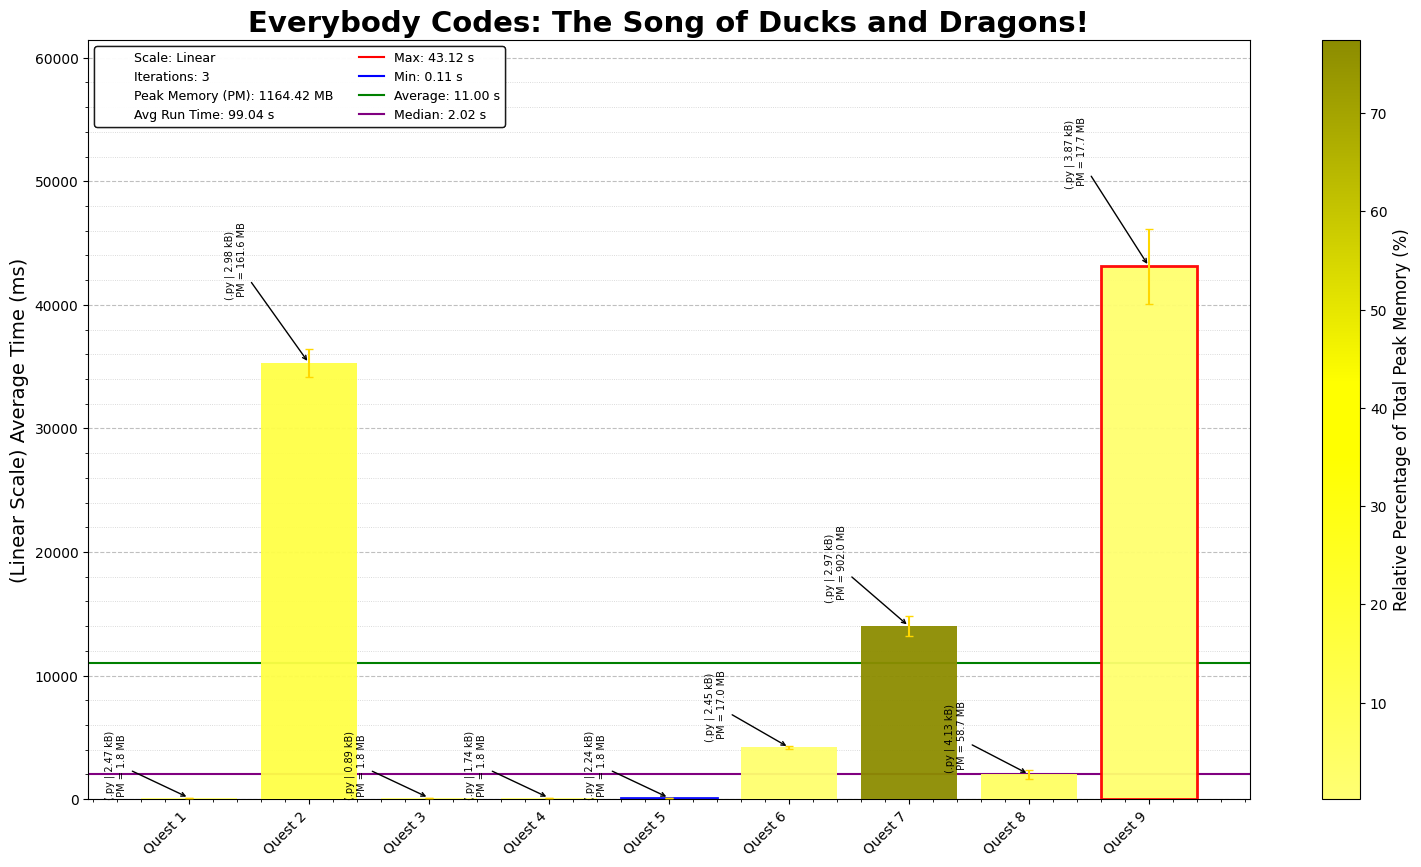
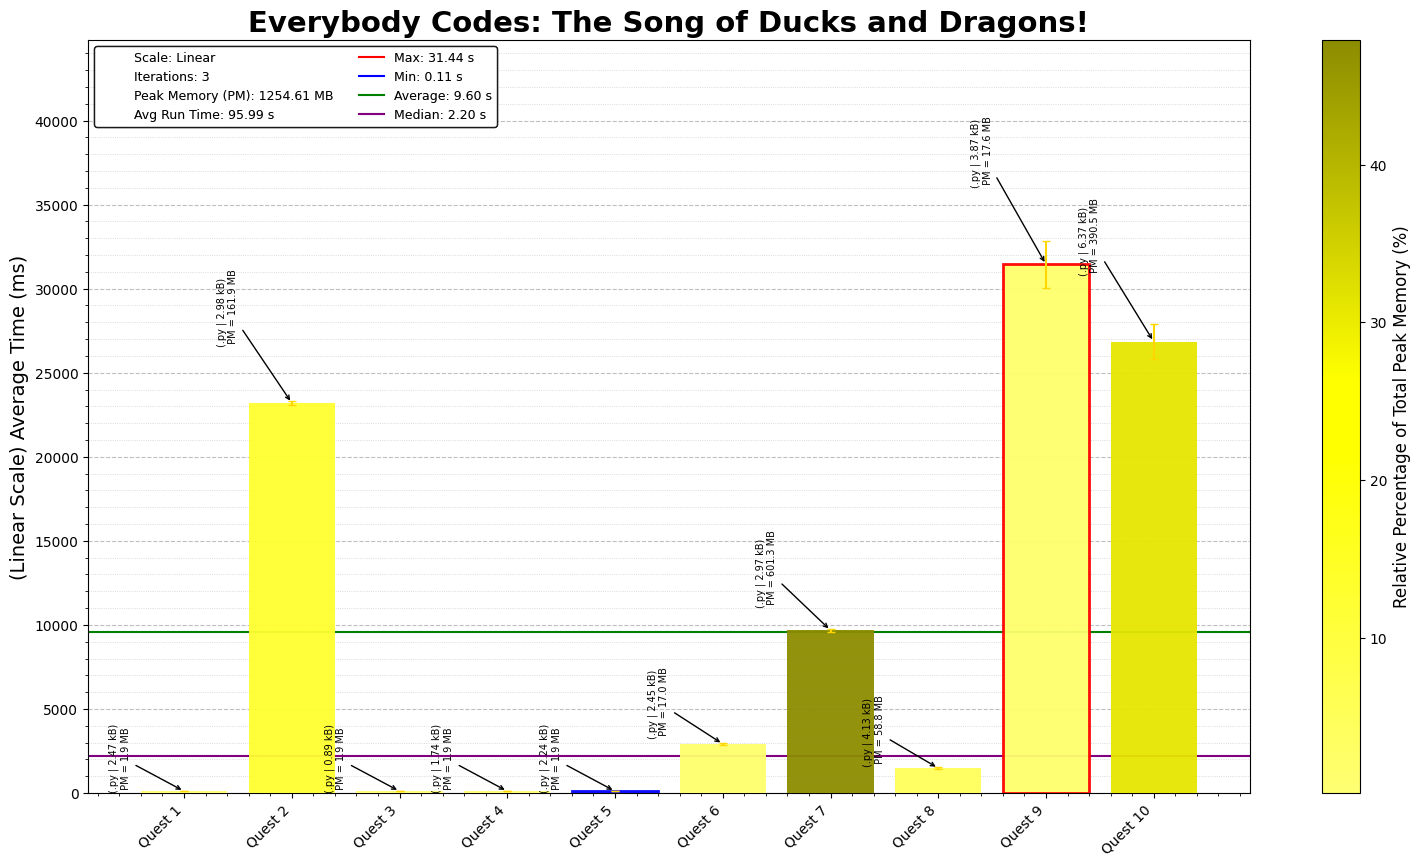
EC 2025 Quest 10: Feast on the Board

diff --git a/2025/10/2025Day10.py b/2025/10/2025Day10.py
@@ -1,0 +1,179 @@
+"""Everybody Codes - Quest 10, Year 2025
+Solution Started: November 15, 2025
+Puzzle Link: https://everybody.codes/event/2025/quests/10
+Solution by: Abbas Moosajee
+Brief: [Feast on the Board]"""
+
+#!/usr/bin/env python3
+from pathlib import Path
+from copy import deepcopy
+from collections import defaultdict, deque
+import time
+start_time = time.time()
+
+# List of input file names
+input_files = ["Day10_input_p1.txt", "Day10_input_p2.txt", "Day10_input_p3.txt"]
+
+# Read and split the input data into individual lists
+input_data_p1, input_data_p2, input_data_p3 = [
+    open(Path(__file__).parent / file).read().strip().split('\n')
+    for file in input_files
+]
+
+class DragonChess:
+    dragon_moves = [
+        (-1, -2), (-1, 2), (-2, -1), (-2, 1),
+            (1, -2), (1, 2), (2, -1), (2, 1)
+        ]
+
+    def __init__(self, init_chessboard):
+        self.seen = {}
+        self.board = self.parse_chessboard(init_chessboard)
+        self.max_r = max(r for (r, _) in self.board.keys())
+
+    def parse_chessboard(self, init_chessboard):
+        board_dict = defaultdict(tuple)
+        self.dragon_pos = (0, 0)
+        self.all_sheep = set()
+        for row_no, row_data in enumerate(init_chessboard):
+            for col_no, cell in enumerate(row_data):
+                pos = (row_no, col_no)
+                if cell == "D":
+                    self.dragon_pos = pos
+                if cell == "S":
+                    self.all_sheep.add(pos)
+                board_dict[pos] = cell
+        return board_dict
+
+    def count_sheep(self, max_moves):
+        init_pos = self.dragon_pos
+        queue = deque([(init_pos, 0)])
+        visited = set([init_pos])        # Only track positions, NOT (pos, moves)
+        sheep_found = set()
+
+        while queue:
+            (row, col), moves = queue.popleft()
+            if moves >= max_moves:
+                continue
+
+            for dr, dc in self.dragon_moves:
+                nr, nc = row + dr, col + dc
+                new_pos = (nr, nc)
+
+                if new_pos not in self.board:
+                    continue
+
+                if new_pos in visited:
+                    continue
+                visited.add(new_pos)
+
+                # Count sheep once
+                if self.board[new_pos] == "S" and new_pos not in sheep_found:
+                    sheep_found.add(new_pos)
+                queue.append((new_pos, moves + 1))
+        return len(sheep_found)
+
+    def eat_sheeps(self, start: tuple, moves: int) -> set:
+        """Return all sheep positions reachable by the dragon within `moves` knight-moves."""
+        r, c = start
+
+        if moves == 1:
+            return {
+                (r + dr, c + dc)
+                for dr, dc in self.dragon_moves
+                if (r + dr, c + dc) in self.all_sheep
+            }
+
+        found = set()
+        for dr, dc in self.dragon_moves:
+            nr, nc = r + dr, c + dc
+            if (nr, nc) in self.all_sheep:
+                found.add((nr, nc))
+            found |= self.eat_sheeps((nr, nc), moves - 1)
+
+        return found
+
+    def can_be_eaten(self, sheep: tuple, rounds: int) -> bool:
+        """Check if a sheep that moves downward each round can be eaten."""
+        r, c = sheep
+
+        for i in range(rounds):
+            # Sheep is at (r+i, c) in round i
+            pos_now = (r + i, c)
+            pos_next = (r + i + 1, c)
+
+            # Dragon reaches current sheep position
+            if self.board.get(pos_now) != '#':
+                if pos_now in self.dragons.get(i, ()) or pos_now in self.dragons.get(i + 1, ()):
+                    return True
+
+            # Dragon reaches next sheep position (after sheep moves)
+            if self.board.get(pos_next) != '#':
+                if pos_next in self.dragons.get(i + 1, ()):
+                    return True
+        return False
+
+    def catch_moving_sheep(self, max_moves: int) -> int:
+        """Simulate all dragon positions up to `max_moves` rounds and count how many sheep get eaten."""
+        self.dragons = {0: {self.dragon_pos}}
+
+        for i in range(max_moves):
+            next_positions = set()
+            for r, c in self.dragons[i]:
+                for dr, dc in self.dragon_moves:
+                    nr, nc = r + dr, c + dc
+                    if (nr, nc) in self.board:
+                        next_positions.add((nr, nc))
+            self.dragons[i + 1] = next_positions
+
+        return sum(self.can_be_eaten(sheep, max_moves) for sheep in self.all_sheep)
+
+    def tournament(self, position: tuple, sheeps: set, is_sheep_turn: bool = True) -> int:
+        if not sheeps:
+            return 1
+        key = (position, tuple(sheeps), is_sheep_turn)
+        if key in self.seen:
+            return self.seen[key]
+
+        res = 0
+        if is_sheep_turn:
+            sheep_moved = False
+            for sheep in sheeps:
+                sr, sc = sheep
+                if sr == self.max_r:
+                    sheep_moved = True
+                    continue
+                if (sr + 1, sc) != position or self.board[(sr + 1, sc)] == '#':
+                    new_sheeps = deepcopy(sheeps)
+                    new_sheeps.remove(sheep)
+                    new_sheeps.add((sr + 1, sc))
+                    sheep_moved = True
+                    res += self.tournament(position, new_sheeps, False)
+            if not sheep_moved:
+                res += self.tournament(position, sheeps, False)
+        else:
+            pr, pc = position
+            for dr, dc in self.dragon_moves:
+                new_position = (pr + dr, pc + dc)
+                if new_position in self.board.keys():
+                    if self.board[new_position] != "#":
+                        new_sheeps = sheeps - {new_position}
+                        res += self.tournament(new_position, new_sheeps, True)
+                    else:
+                        res += self.tournament(new_position, sheeps, True)
+        self.seen[key] = res
+        return res
+
+chess_p1 = DragonChess(input_data_p1)
+sheep_p1 = chess_p1.count_sheep(4)
+print("Quest 10, P1:", sheep_p1)
+
+chess_p2 = DragonChess(input_data_p2)
+sheep_p2 = chess_p2.catch_moving_sheep(20)
+print("Quest 10, P2:", sheep_p2)
+
+chess_p3 = DragonChess(input_data_p3)
+sheep_p3 = chess_p3.tournament(chess_p3.dragon_pos, chess_p3.all_sheep)
+print("Quest 10, P3:", sheep_p3)
+
+print(f"Execution Time: {time.time() - start_time:5f}s")

diff --git a/2025/README_2025.md b/2025/README_2025.md
@@ -11,7 +11,8 @@ This repository contains coding solutions for the 2025 Everybody Codes. Each day
 3. **Day 3 - The Deepest Fit**: Why write your own functions, when python can do it for you. LEARN PYTHON Kids
 4. **Day 4 - Teeth of the Wind**: MATH IS FUN
 5. **Day 5 - Fishbone Order**: Interesting way to build a tree fairly simple overall, but figuring out how to skip over segments took a bit of time.
-6. **Day 6 - Mentorship Matrix**: Perfect Problem that shows how sart decisions at the start can save time towards the end, which alas I did not
+6. **Day 6 - Mentorship Matrix**: Perfect Problem that shows how decisions at the start can save time towards the end, which alas I did not
 7. **Day 7 - Namegraph**: Validate names according to a series of rules, and then extend it according tot he same rules usinng a bfs
 8. **Day 8 - The Art of Connection**: Not a bad puzzle overall but geometry is really annoying
 9. **Day 9 - Encoded in the Scales**: Compare strings to calculate similarity, and build family trees. *Improve P3*
+10: **Day 10 - Feast on the Board**: Dragon Chess, all the good maze algorithms at once what more could one ask for
